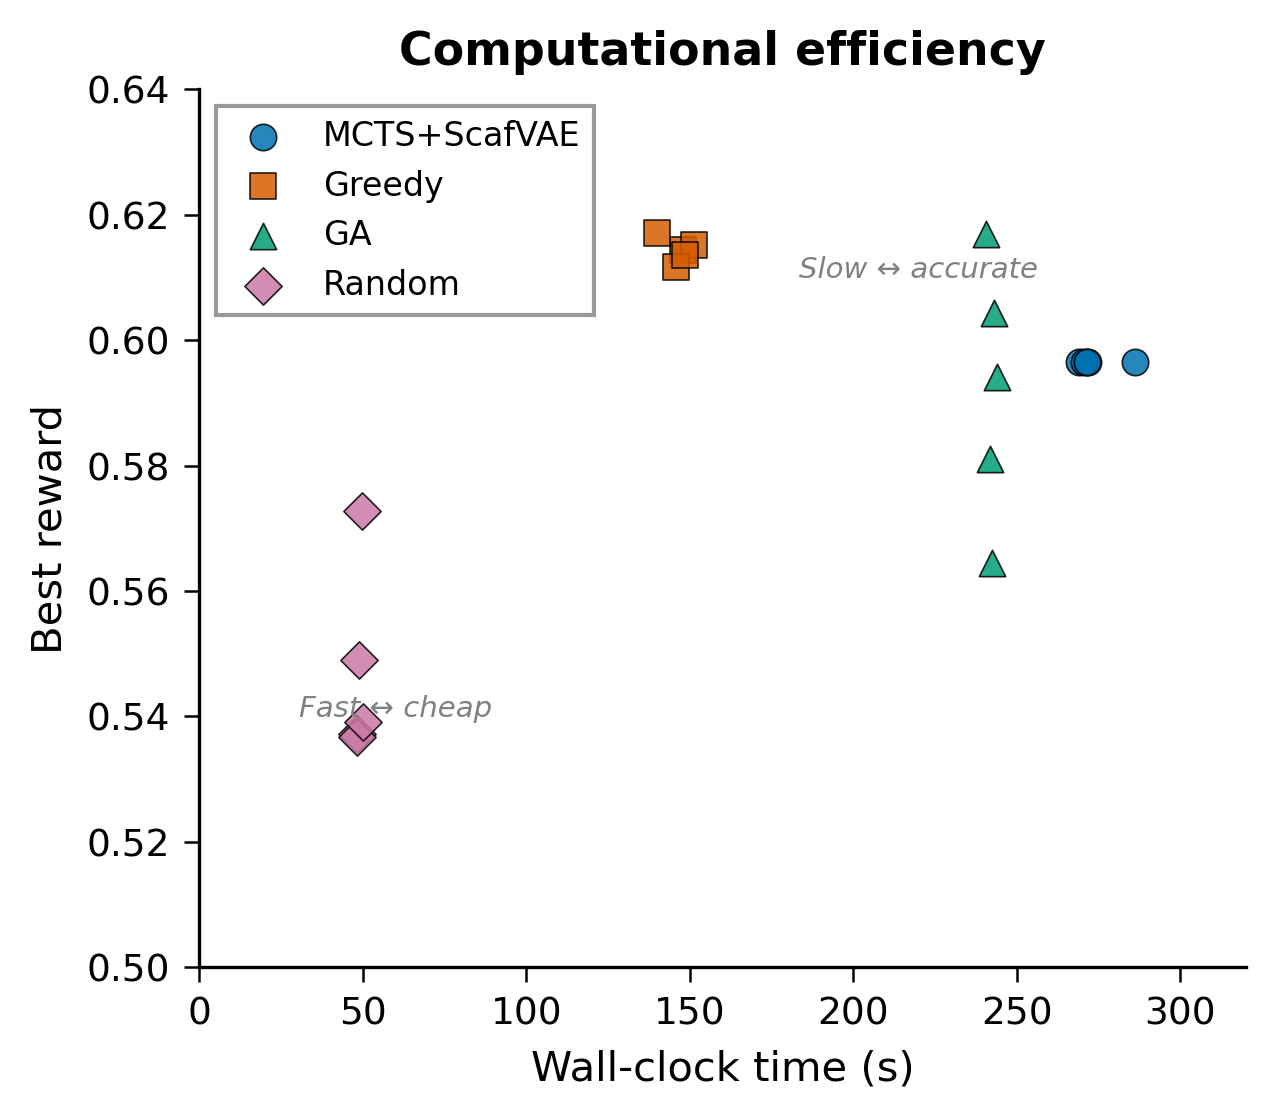
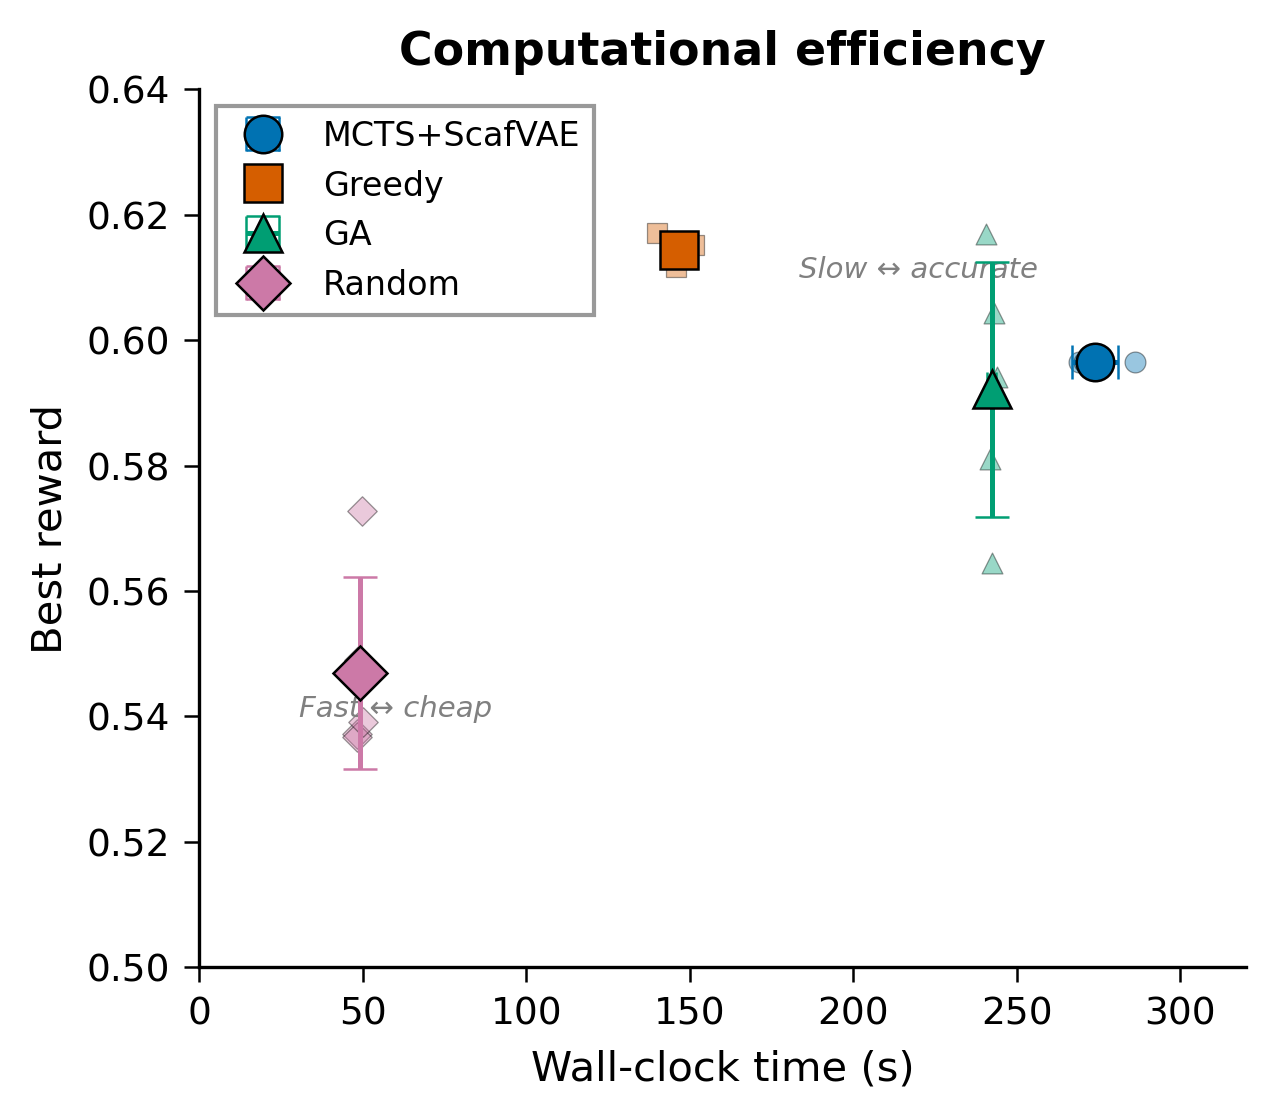
P4 figures: fix load_benchmark_data CSV bug (unreachable code), add plt.errorbar to efficiency plot (mean+/-std overlaid on scatter).

diff --git a/Project4_Advanced_Monte_CarloV2607/scripts/p4_generate_figures.py b/Project4_Advanced_Monte_CarloV2607/scripts/p4_generate_figures.py
@@ -81,10 +81,6 @@ def load_benchmark_data():
         if not csv_path.exists():
             print(f"  WARNING: {csv_path} not found")
             continue
-    if not data:
-        print("  ERROR: No benchmark data loaded! Check results/benchmark/ directory.")
-        print(f"  Expected {N_SEEDS} files: p4_benchmark_seed_[0-{N_SEEDS-1}].csv")
-        sys.exit(1)
         with open(csv_path) as f:
             reader = csv.DictReader(f)
             for row in reader:
@@ -98,6 +94,10 @@ def load_benchmark_data():
                     "sa": float(row.get("sa", 0)),
                     "time_s": float(row["time_s"]),
                 })
+    if not data:
+        print("  ERROR: No benchmark data loaded! Check results/benchmark/ directory.")
+        print(f"  Expected {N_SEEDS} files: p4_benchmark_seed_[0-{N_SEEDS-1}].csv")
+        sys.exit(1)
     return data
 
 
@@ -152,25 +152,41 @@ def plot_reward_bar(data):
 
 # ── Figure 2: Efficiency scatter plot ────────────────────────────────
 def plot_efficiency(data):
-    """Scatter plot: reward vs time, coloured by method."""
+    """Scatter + errorbar: reward vs time, coloured by method.
+
+    Individual seed results are shown as scatter points; mean ± std
+    per method is overlaid as error bars for a clearer comparison.
+    """
     methods = ["mcts", "greedy", "ga", "random"]
     markers = {"mcts": "o", "greedy": "s", "ga": "^", "random": "D"}
 
     fig, ax = plt.subplots(figsize=(4.5, 3.8))
 
     for m in methods:
-        times = [d["time_s"] for d in data[m]]
-        rewards = [d["reward"] for d in data[m]]
-        ax.scatter(times, rewards, c=COLOURS[m], label=METHOD_LABELS[m],
-                   marker=markers[m], s=40, edgecolors="black", linewidth=0.4,
-                   alpha=0.85, zorder=3)
+        times = np.array([d["time_s"] for d in data[m]])
+        rewards = np.array([d["reward"] for d in data[m]])
+
+        # Individual seed points (transparent, show distribution)
+        ax.scatter(times, rewards, c=COLOURS[m], label=None,
+                   marker=markers[m], s=25, edgecolors="black",
+                   linewidth=0.3, alpha=0.4, zorder=2)
+
+        # Mean ± std error bar (bold, principal visual anchor)
+        mean_t, mean_r = np.mean(times), np.mean(rewards)
+        std_t, std_r = np.std(times, ddof=1), np.std(rewards, ddof=1)
+        ax.errorbar(mean_t, mean_r, xerr=std_t, yerr=std_r,
+                    fmt=markers[m], c=COLOURS[m], label=METHOD_LABELS[m],
+                    markersize=9, markeredgecolor="black",
+                    markeredgewidth=0.6, capsize=4, capthick=1.0,
+                    elinewidth=1.2, alpha=1.0, zorder=4)
 
     ax.set_xlabel("Wall-clock time (s)", fontsize=10)
     ax.set_ylabel("Best reward", fontsize=10)
     ax.set_title("Computational efficiency", fontsize=11, fontweight="bold")
-    ax.legend(frameon=True, fancybox=False, edgecolor="grey", fontsize=8)
+    ax.legend(frameon=True, fancybox=False, edgecolor="grey", fontsize=8,
+              loc="upper left")
 
-    # Add rectangle annotations for method regions
+    # Annotations for method regions
     ax.annotate("Fast ↔ cheap", xy=(60, 0.54), fontsize=7, fontstyle="italic",
                 color="grey", ha="center")
     ax.annotate("Slow ↔ accurate", xy=(220, 0.61), fontsize=7, fontstyle="italic",
